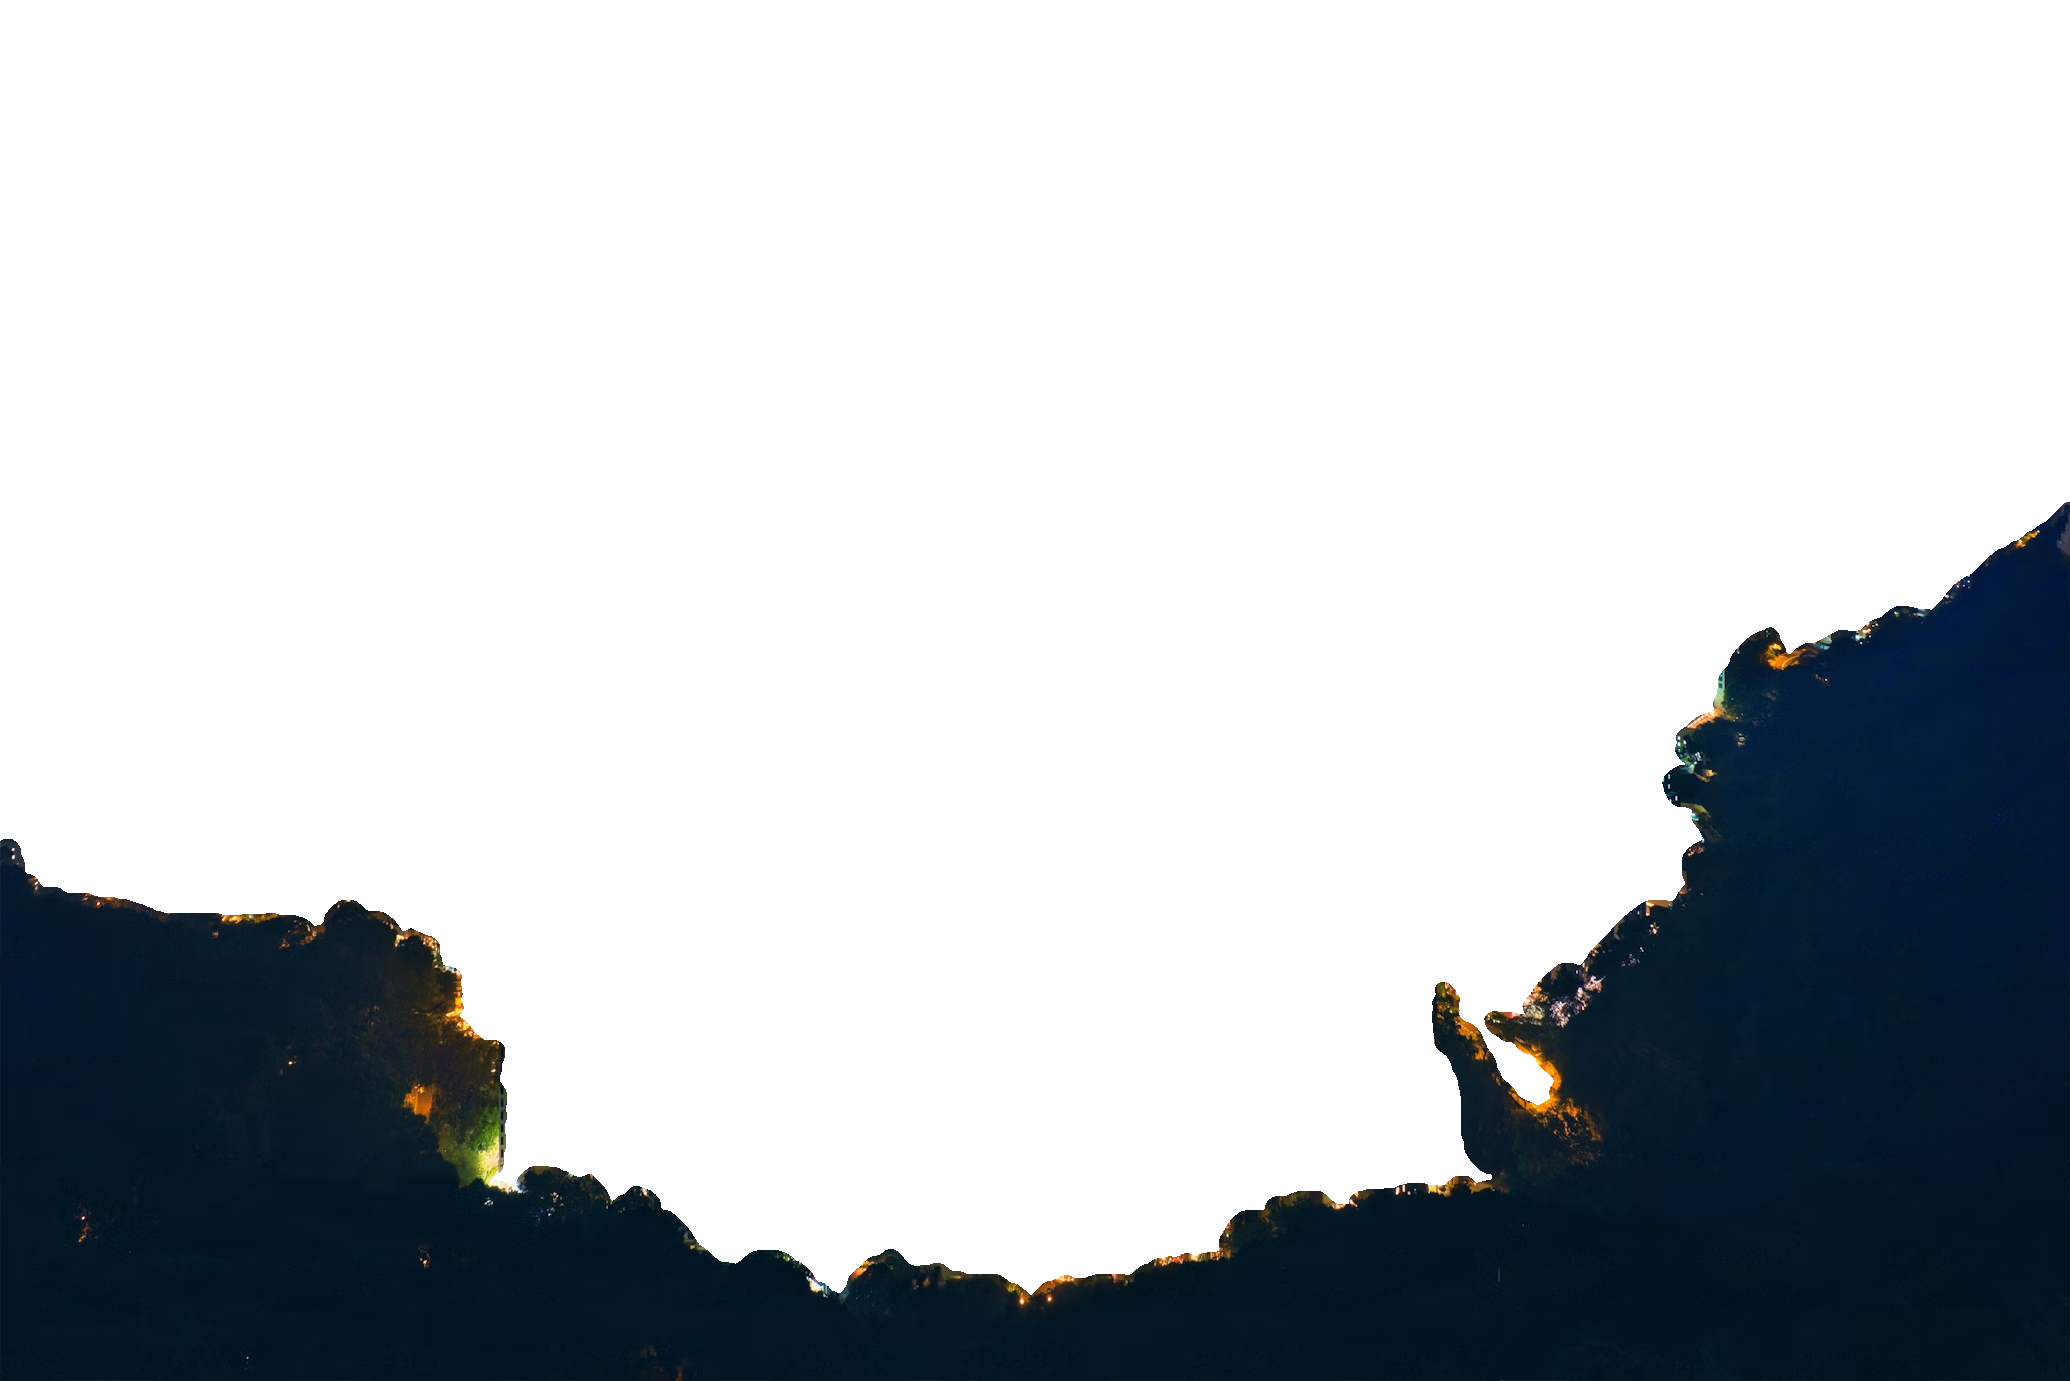
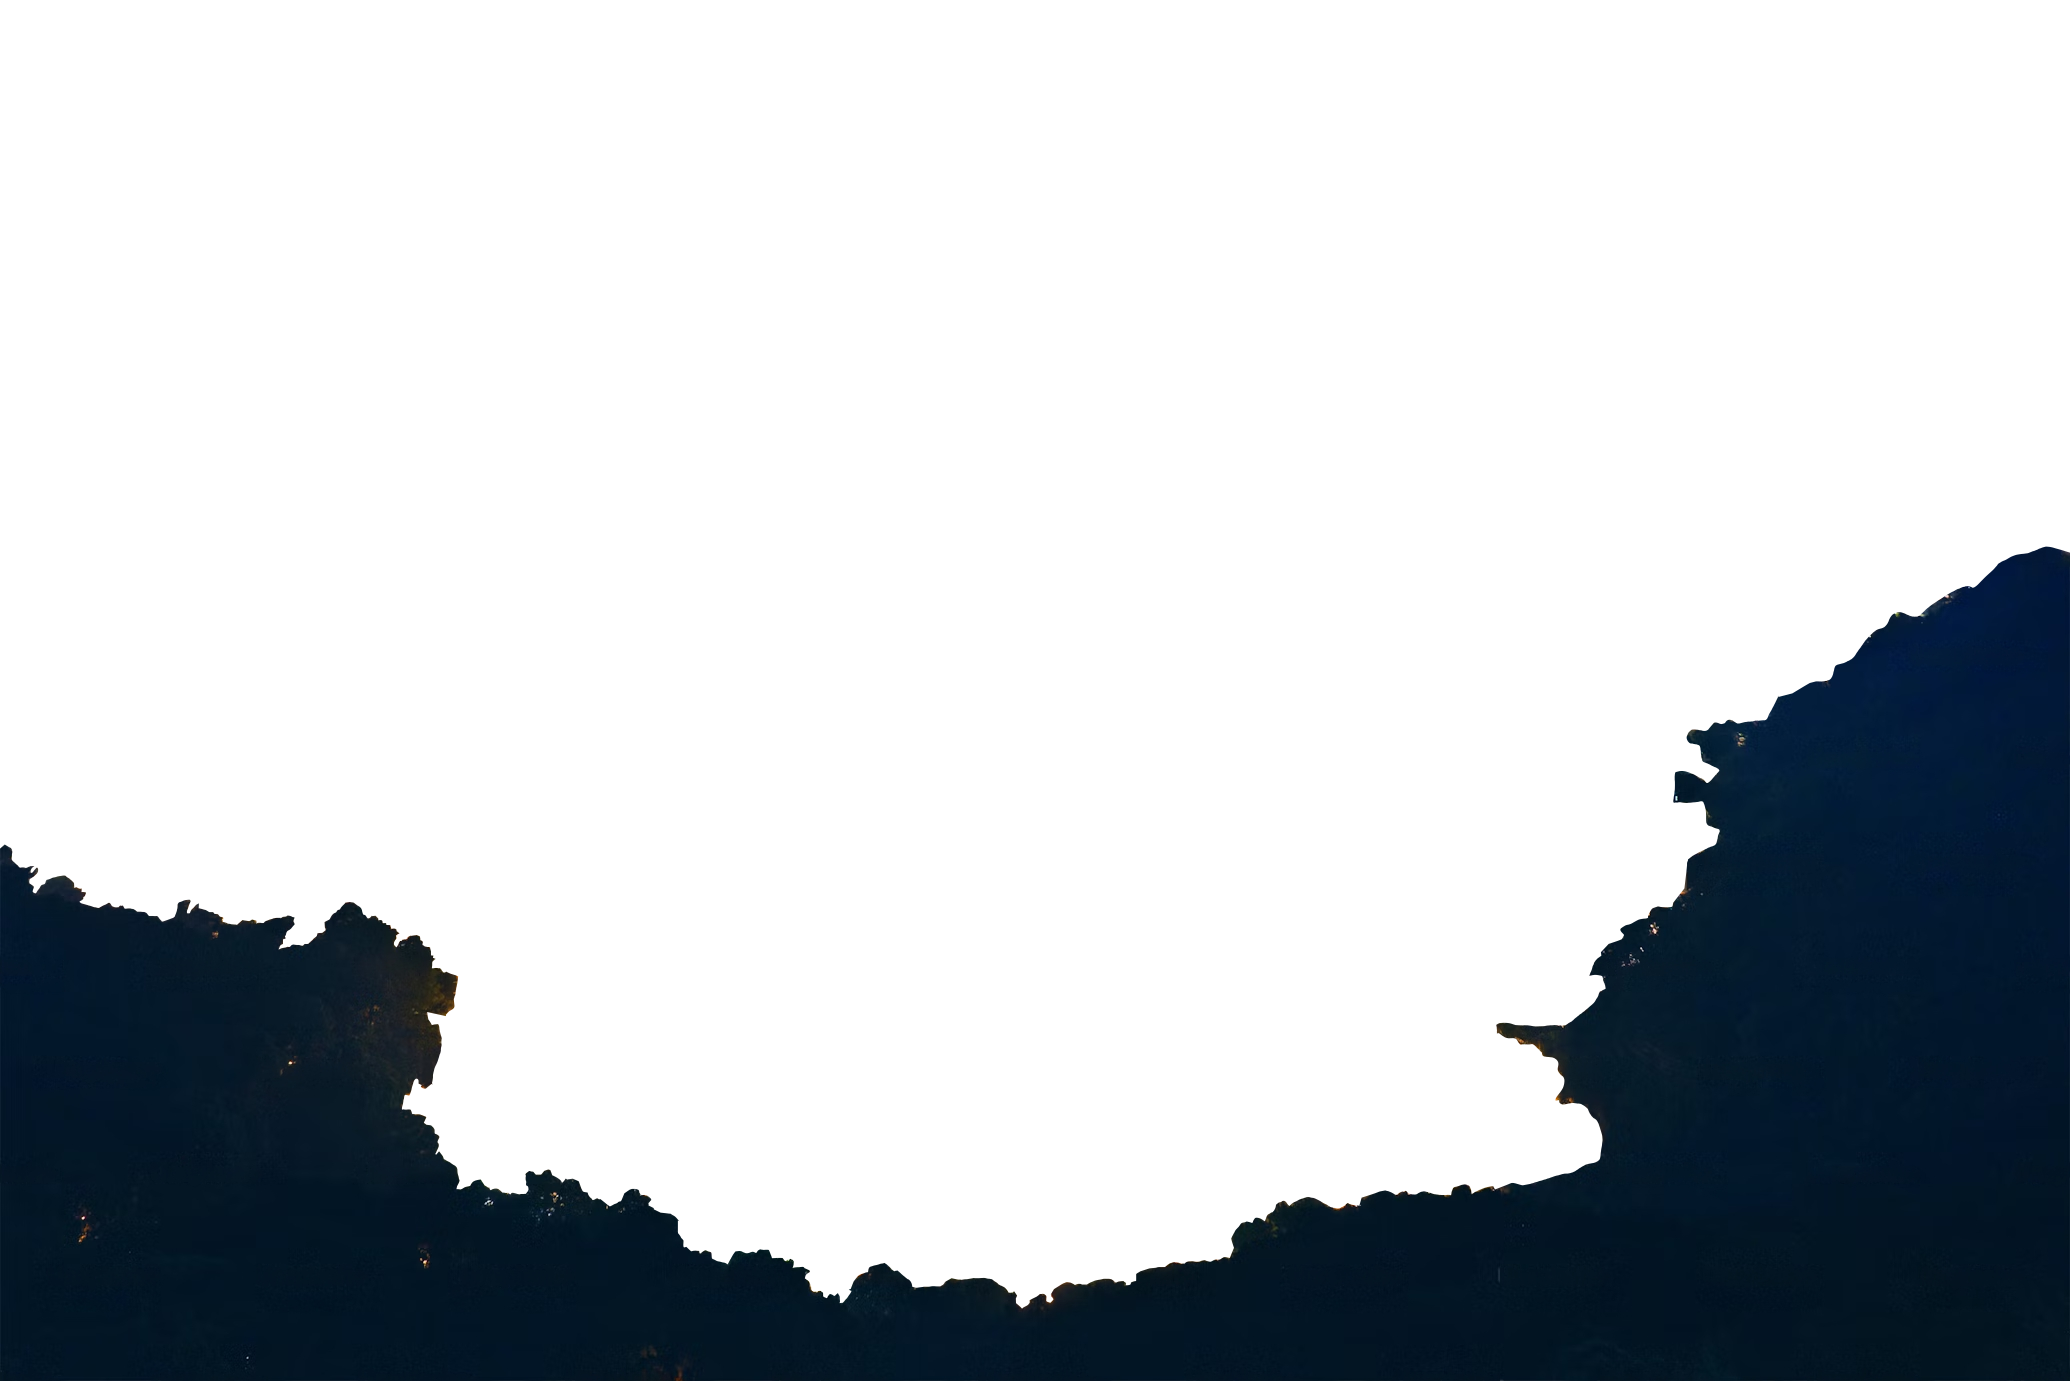
Improved layers

diff --git a/index.html b/index.html
@@ -26,13 +26,14 @@
   <header class="hiddenBlur">
     <img src="./assets/home/bg.png" id="MaskingImage" draggable="false" />
     <div class="images">
-      <img src="./assets/home/layer1.png" class="img1" alt="Image 1" style="margin-top: -6px" draggable="false" />
-      <img src="./assets/home/layer2.png" class="img2" alt="Image 2" style="margin-top: -5px" draggable="false" />
-      <img src="./assets/home/layer3.png" class="img3" alt="Image 3" style="margin-top: -4px" draggable="false" />
-      <img src="./assets/home/layer4.png" class="img4" alt="Image 4" style="margin-top: -3px" draggable="false" />
-      <img src="./assets/home/layer5.png" class="img5" alt="Image 5" style="margin-top: -2px" draggable="false" />
-      <img src="./assets/home/layer6.png" class="img6" alt="Image 6" style="margin-top: -1px" draggable="false" />
-      <img src="./assets/home/layer7.png" class="img7" alt="Image 7" draggable="false" />
+      <img src="./assets/home/layer1.png" class="img1" alt="Image 1" style="margin-top: -7px" draggable="false" />
+      <img src="./assets/home/layer2.png" class="img2" alt="Image 2" style="margin-top: -6px" draggable="false" />
+      <img src="./assets/home/layer3.png" class="img3" alt="Image 3" style="margin-top: -5px" draggable="false" />
+      <img src="./assets/home/layer4.png" class="img4" alt="Image 4" style="margin-top: -4px" draggable="false" />
+      <img src="./assets/home/layer5.png" class="img5" alt="Image 5" style="margin-top: -3px" draggable="false" />
+      <img src="./assets/home/layer6.png" class="img6" alt="Image 6" style="margin-top: -2px" draggable="false" />
+      <img src="./assets/home/layer7.png" class="img7" alt="Image 7" style="margin-top: -1px" draggable="false" />
+      <img src="./assets/home/layer8.png" class="img7" alt="Image 8" draggable="false" />
     </div>
     <img src="./assets/logo/logoTextWhite.png" class="title" draggable="false"/>
   </header>

diff --git a/js/parallax.js b/js/parallax.js
@@ -12,6 +12,7 @@ window.addEventListener('scroll', () => {
             images[4].style.transform = `translateY(-${scrollY / 11}px)`;
             images[5].style.transform = `translateY(-${scrollY / 13}px)`;
             images[6].style.transform = `translateY(-${scrollY / 15}px)`;
+            images[7].style.transform = `translateY(-${scrollY / 17}px)`;
             ticking = false;
         });
         ticking = true;
